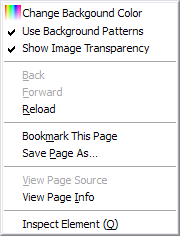
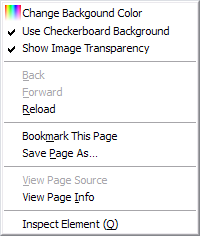
Updated image-background

diff --git a/image-background/index.html b/image-background/index.html
@@ -150,9 +150,9 @@
        alt="Color setting dialog without color picker" title="Color setting dialog without color picker">
 </p>
 
-<h3 id="configure-background-patterns">Toggle background patterns</h3>
+<h3 id="configure-checkerboard-background">Toggle checkerboard background</h3>
 
-<p>To toggle background patterns, check/uncheck <strong>Use Background Patterns</strong> on context menu.</p>
+<p>To toggle checkerboard background, check/uncheck <strong>Use Checkerboard Background</strong> on context menu.</p>
 
 <h3 id="configure-image-transparency">Toggle image transparency</h3>
 
